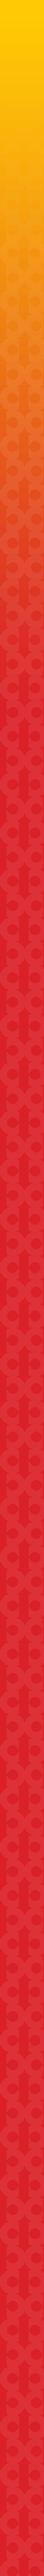
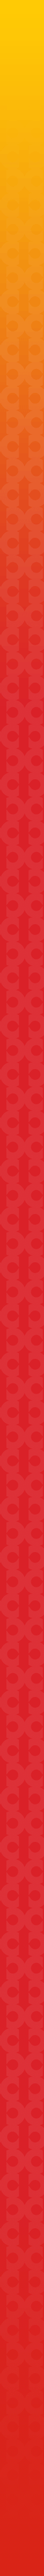
Minor Tweaks Facebook Id pic changed

Changed region(s): [[0.0, 0.9375, 1.0, 1.0]]

diff --git a/salf/style/css/layout.css b/salf/style/css/layout.css
@@ -22,7 +22,7 @@ html, body{
 body{
 	width: 100%;
 	
-	background: #FBBF13 url('../images/backdrop-grate.png') repeat-x right 0px;
+	background: #D92417 url('../images/backdrop-grate.png') repeat-x right 0px;
 	
 	color: #414042;
 	
@@ -30,6 +30,23 @@ body{
 a{
 	color: #da2128;
 	text-decoration: none;
+}
+.post a:hover{
+	text-decoration: underline;
+}
+.post a:visited{
+	color:#7D140E;
+}
+a.more-link{
+	margin: 3px -3px 3px 0;
+	padding: 1px 3px;
+	background: white;
+	display: block;
+	width: 87px;
+}
+a.more-link:hover{
+	text-decoration: none;
+	color: #B04883;
 }
 #nav a{
 	color: white;
@@ -588,3 +605,4 @@ ul#volunteer-jump-menu li a:hover{
 	text-decoration: underline;
 #stream-tweet{
 	float: left;
+}

diff --git a/salf/holding-page.php b/salf/holding-page.php
@@ -32,7 +32,12 @@ Template Name: Holding Page
 					<div class="new-entry">
 						<a href="<?php the_permalink();?>"><h2><?php the_date('j-n-y');?>     <?php the_title(); ?></h2></a>
 						<?php mf_post_thumbnail('med-cropped');?>
-						<?php the_excerpt(); ?>
+						<?php 
+						global $more;    // Declare global $more (before the loop).
+						$more = 0;       // Set (inside the loop) to display content above the more tag.
+						the_content(" Read More...");
+						?>
+						
 						<script type="text/javascript">
 						function getTinyUrl($url) {   
 						     $tinyurl = file_get_contents("http://tinyurl.com/api-create.php?url=".$url);  
@@ -310,7 +315,7 @@ Template Name: Holding Page
 			
 			<ul id="volunteer-jump-menu">
 				<li><h3>Opportunities Available</h3></li>
-				<?php $volunteer_menu_query = new WP_Query('post_type=Volunteer&orderby=menu_order');
+				<?php $volunteer_menu_query = new WP_Query('post_type=Volunteer&orderby=menu_order&posts_per_page=-1');
 				if ( $volunteer_menu_query->have_posts() ) : while ( $volunteer_menu_query->have_posts() ) : $volunteer_menu_query->the_post();?>
 				
 				<li><a href="#oppurtunity-<?php the_ID();?>"><?php the_title(); ?></a></li>
@@ -326,7 +331,7 @@ Template Name: Holding Page
 				" src="<?php echo bloginfo('template_url'); ?>/style/images/partner-border.png" width="900" height="1" />
 			<div id="volunteer-options">
 			<?php
-			$volunteer_query = new WP_Query('post_type=Volunteer&orderby=menu_order');
+			$volunteer_query = new WP_Query('post_type=Volunteer&orderby=menu_order&posts_per_page=-1');
 			
 			if ( $volunteer_query->have_posts() ) : while ( $volunteer_query->have_posts() ) : $volunteer_query->the_post();?>
 				<div class="volunteer-content" id="oppurtunity-<?php the_ID();?>">

diff --git a/salf/functions.php b/salf/functions.php
@@ -26,6 +26,46 @@ if ( has_post_thumbnail() ) {
 	} 
 
 }
+
+
+function get_attached_images(){
+    // This function runs in "the_loop", you could run this out of the loop but
+    // you would need to change this to $post = $valid_post or something other than
+    // using the global post declaration.
+	/*
+	$img	[0] => url
+			[1] => width
+			[2] => height	
+	*/	
+	
+    global $post; 
+    $args = array(
+      'post_type' => 'attachment',
+      'numberposts' => 1,
+      'post_status' => null,
+      'post_parent' => $post->ID,
+      'order' => 'ASC',
+      'orderby' => 'menu_order'
+      ); 
+    $attachment = get_posts($args); // Get attachment
+    if ($attachment) {
+      $img = wp_get_attachment_image_src($attachment[0]->ID, $size = 'thumbnail'); 
+    	//echo "<img alt=\"";
+		//echo the_title();
+		//echo "\" src=\"";
+		echo $img[0];
+		//echo "\" width=\"";
+		//echo $img[1]
+		//echo "\" height=\""
+		//echo $img[2]
+		//echo "\"/>";
+		//print_r($attachment);
+  	}
+}
+
+
+
+
 /*--------------
 Sidebar Support
 ----------------*/
@@ -162,7 +202,7 @@ $tcount = $parts[0];
 if($tcount == '') { $tcount = '0'; }
 echo '<div class="twitter-badge"><strong>'.$tcount.' </strong> Followers</div>';//*/
 
-class twitter_class
+/*class twitter_class
 {
   function twitter_class()
   {
@@ -264,6 +304,5 @@ class twitter_class
     curl_close($ch);
     return $output;
   }
-}
+}//*/
 ?>
-

diff --git a/salf/single.php b/salf/single.php
@@ -9,7 +9,7 @@
 			<?php the_content('<p>Read the rest of this entry &raquo;</p>'); ?>
 
 			<?php wp_link_pages(array('before' => '<p><strong>Pages:</strong> ', 'after' => '</p>', 'next_or_number' => 'number')); ?>
-			<?php the_tags( '<p>Tags: ', ', ', '</p>'); ?>
+			<?php //the_tags( '<p>Tags: ', ', ', '</p>'); ?>
 
 				
 				<script type="text/javascript">
@@ -27,7 +27,7 @@
 				document.write('<a class="twitter" href="'+twtLink+'" target="_blank"'+'><img src="<?php echo bloginfo('template_url')?>/style/images/social/twitter.png"  border="0" alt="Tweet This!" /'+'><'+'/a>');
 				</script>
 				<noscript><a class="twitter" href="http://twitter.com/home?status=<?php echo getTinyUrl(get_permalink(get_the_ID()));?>" target="_blank"'+'><img src="<?php echo bloginfo('template_url')?>/style/images/social/twitter.png"  border="0" alt="Tweet This!" /></a></noscript>
-
+				 
 				<span class="facebook-connect">
 				<a href=# target="_blank" class="facebook"><img src="<?php echo bloginfo('template_url')?>/style/images/social/facebook.png" width="16" height="16" alt="Facebook" /></a>
 				<div id="fb-root"></div>

diff --git a/salf/header.php b/salf/header.php
@@ -22,10 +22,14 @@ xmlns:fb="http://www.facebook.com/2008/fbml" <?php language_attributes(); ?>>
 		}
 		?>
 		<meta property="og:site_name" content="DSC South Asian Literature Festival"/>
-		<meta property="og:image" content="<?php echo bloginfo('template_url'); ?>/style/images/mini_logo.jpg">
+		
 		
 		<?php if(is_single()):?>
 		<?php if (have_posts()) : while (have_posts()) : the_post(); ?>
+		<meta property="og:image" content="<?php
+		
+		 get_attached_images();
+		?>">
 		<meta property="og:description"
 		          content="<?php the_excerpt();?>"/>
 		
@@ -37,6 +41,8 @@ xmlns:fb="http://www.facebook.com/2008/fbml" <?php language_attributes(); ?>>
 		endif;
 		wp_reset_query();
 		?>
+		<?php else:?>
+		<meta property="og:image" content="<?php echo bloginfo('template_url'); ?>/style/images/mini_logo.jpg">	
 		<?php endif; ?>
 		<?php if (is_home())
 		echo '<meta property="og:url" content="'.bloginfo('siteurl').'" />';
